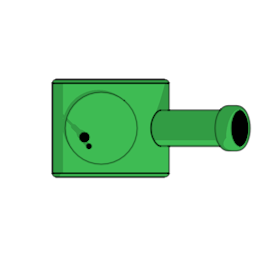
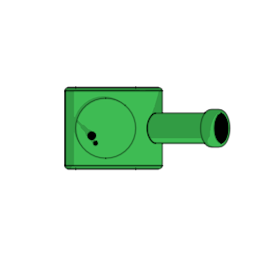
minor tank resizing

Changed region(s): [[0.1875, 0.2812, 1.0, 0.7188]]

diff --git a/core/src/com/ttr/actor/tank/Tank.java b/core/src/com/ttr/actor/tank/Tank.java
@@ -24,8 +24,9 @@ import com.ttr.utils.Keybinds;;
 public class Tank extends DynamicCollider implements InputProcessor {
 	public float gunOrientation; // in radians
 	public float tempX, tempY, tempO; // test values to determine if move is free from collision
-	private Sprite tread, gun, vertex;
+	private Sprite tread, gun;
 	public float gunOriginOffset = 28;
+	public float hitRadius = 130;
 	public static float reloadTime;
 
 	public static final int SIZE = Assets.manager.get(Assets.tread).getWidth();
@@ -45,7 +46,6 @@ public class Tank extends DynamicCollider implements InputProcessor {
 		gun = new Sprite(Assets.manager.get(Assets.gun_0)); // set pivot of gun to 100 pixels along width (scaled from
 															// 256 total), half of height
 		gun.setOrigin(Tank.SIZE / 2f - gunOriginOffset, Tank.SIZE / 2f);
-		vertex = new Sprite(Assets.manager.get(Assets.vertex));
 		
 		brickHitboxes = new ArrayList<Polygon>();
 		collidesAt(0, 0, 0); // fills the instance arrays so that the hitboxes' vertices can render properly
@@ -53,7 +53,7 @@ public class Tank extends DynamicCollider implements InputProcessor {
 	
 	public float[] getVertices(float x, float y, float orientation) {
 		float[] vertices = new float[8];
-		Vector2 v = new Vector2((float) (160 * Math.cos(orientation)), (float) (160 * Math.sin(orientation)));
+		Vector2 v = new Vector2((float) (hitRadius * Math.cos(orientation)), (float) (hitRadius * Math.sin(orientation)));
 		v.rotate(45f);
 		for (int i = 0; i < 4; i++) {
 			vertices[i * 2] = x + v.x;
